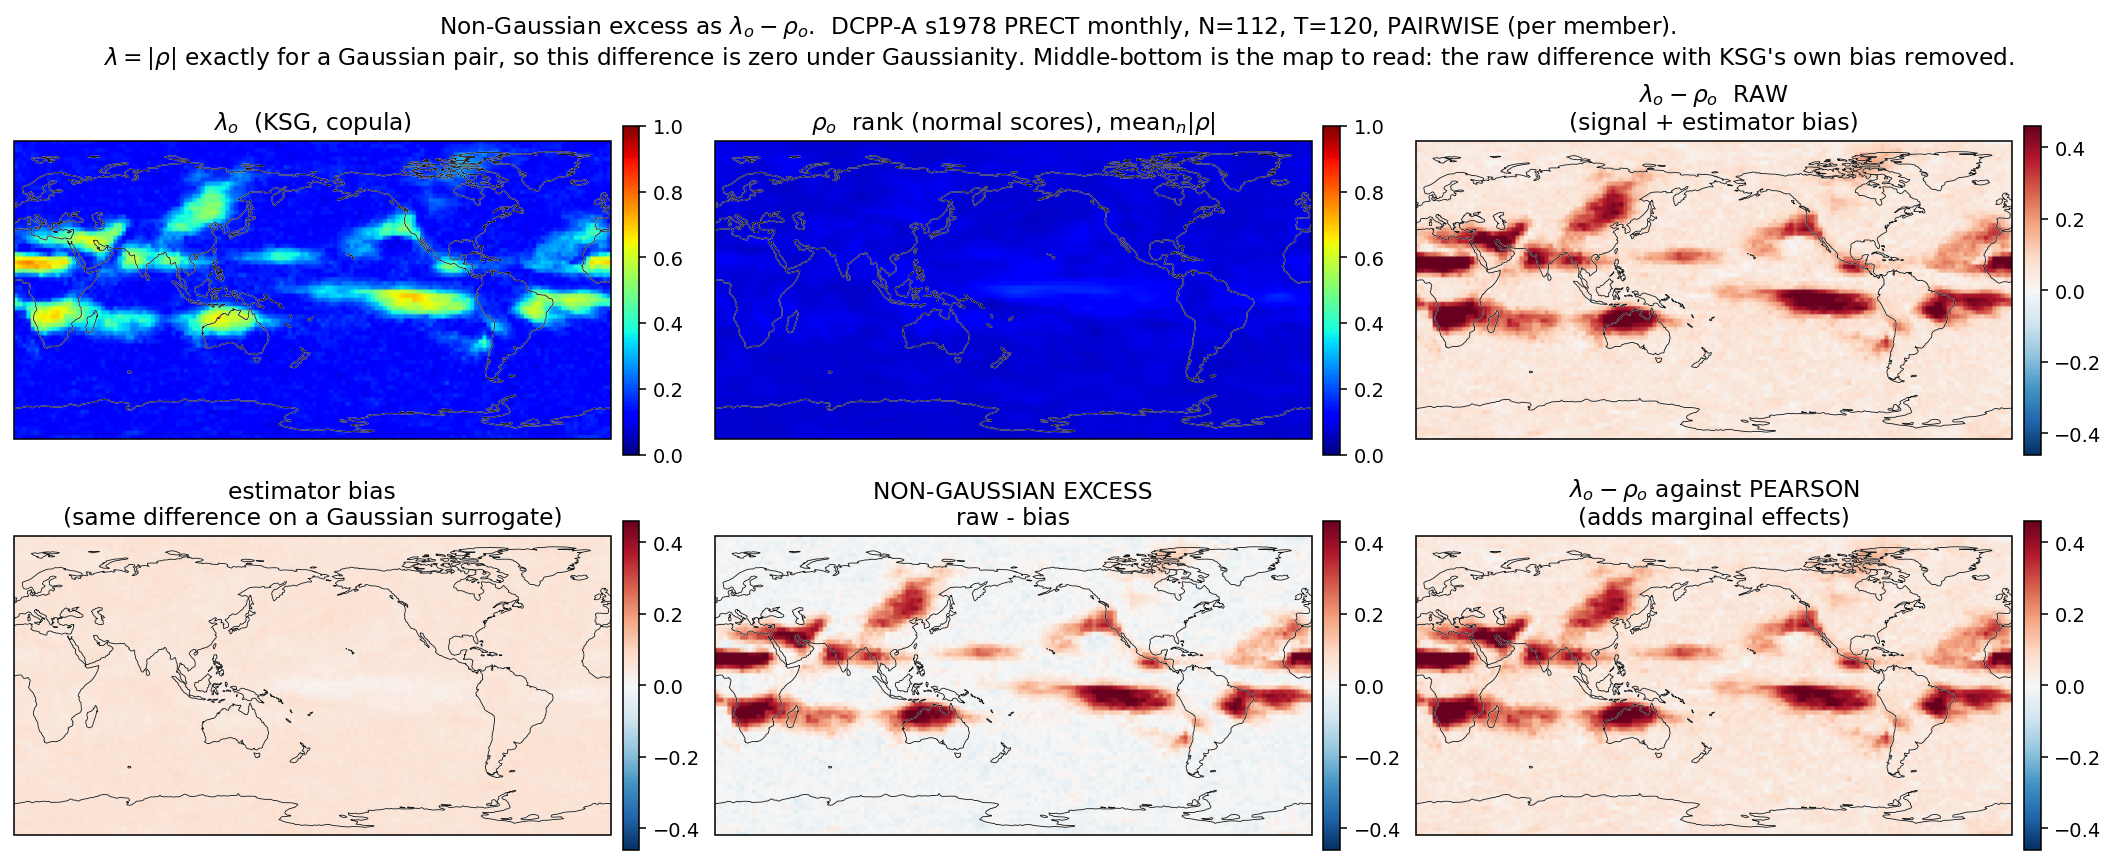
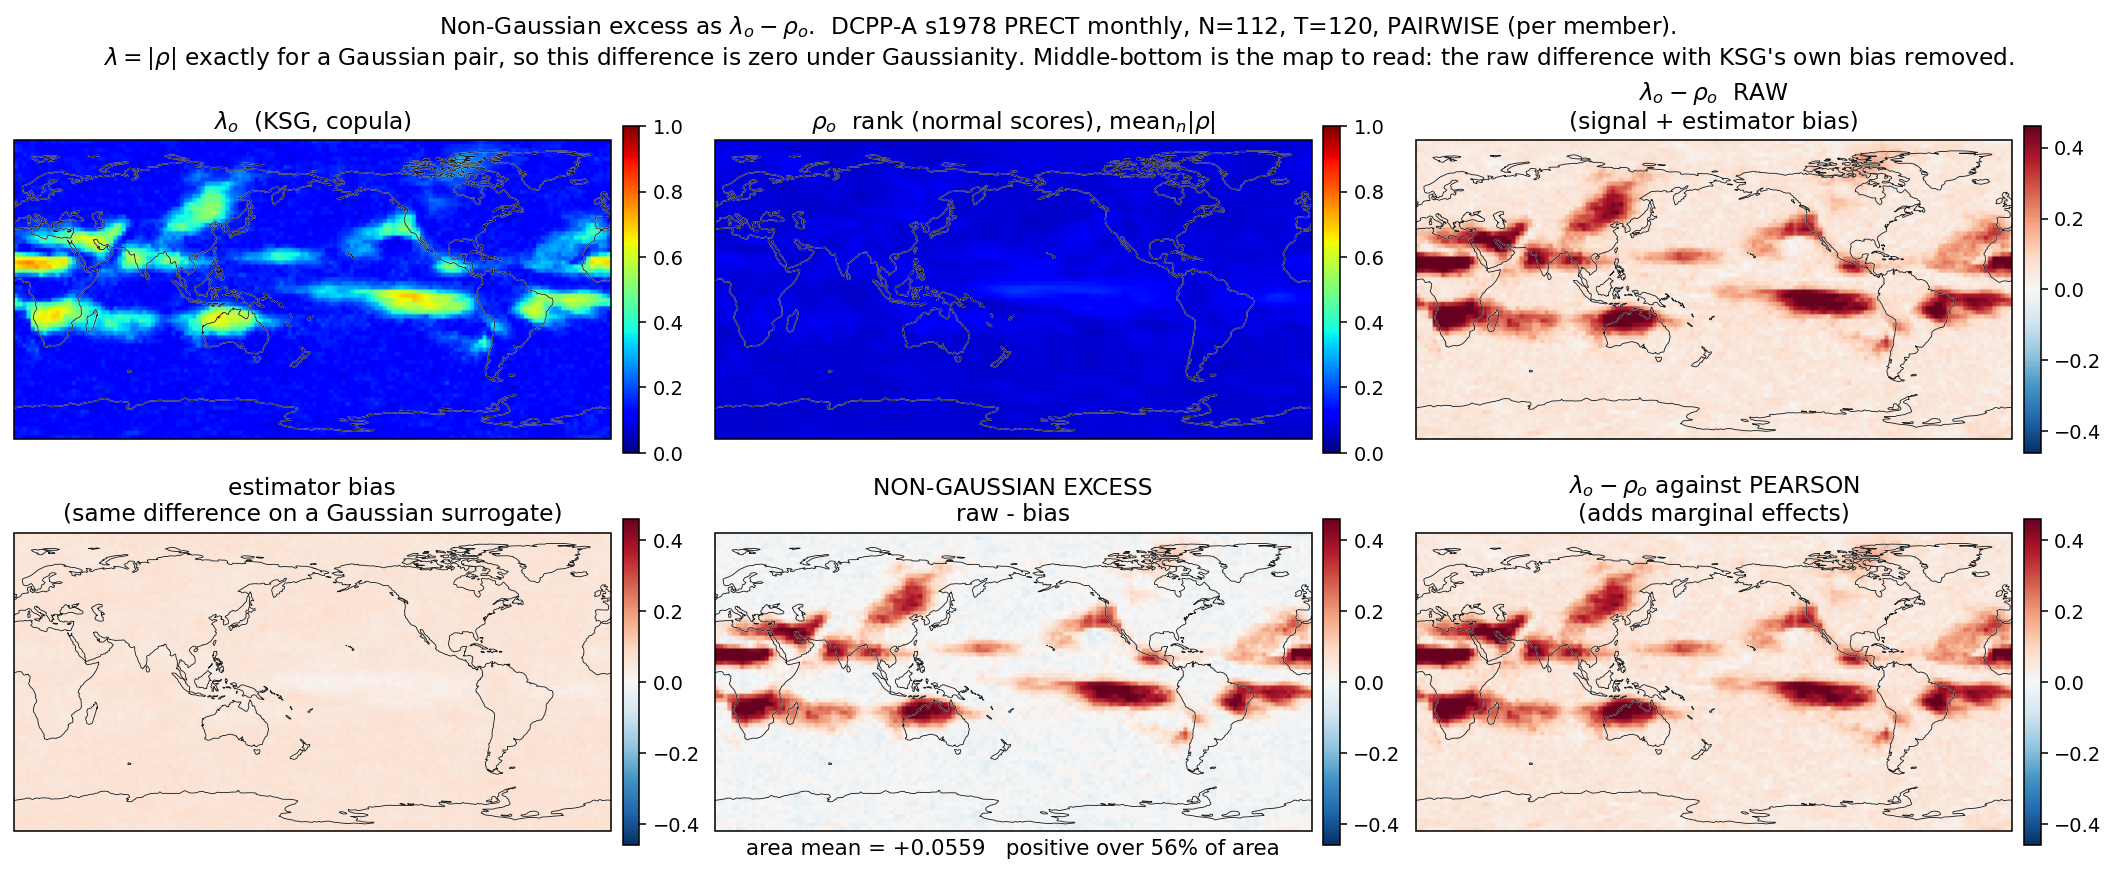
maps: restore the panel labels cartopy had silently dropped
A freshly created cartopy GeoAxes has its x- and y-axis set invisible, and an
invisible axis does not draw its label -- so ax.set_xlabel() / set_ylabel() were
silent no-ops on every map panel. The previous commit lost, without any error:

  figC  the three row names and all six "ratio of area means = ..." labels
  figD  the "area mean = ... positive over ...% of area" label
  figG  the per-panel "area mean ... (se/cell ...)" labels

figA/figB kept theirs only by accident: they call set_xticks([]) at the end, and
cartopy's set_xticks re-enables the axis as a side effect. tmp_mapaxes.show now
does that explicitly -- both axes visible, empty tick lists -- so labels render
and no ticks are drawn.

figC, figD and figG regenerated. Every json in both directories is byte-identical
to the previous commit, so this is purely the missing text; figA/figB/figE were
re-run too and came out byte-identical, confirming they were unaffected.

Recorded in both READMEs, since anyone adding a panel will hit it.

diff --git a/figures/pairwise-exploratory-prect/README.md b/figures/pairwise-exploratory-prect/README.md
@@ -383,6 +383,13 @@ map convention there once instead of in seven scripts. It needs `cartopy` (0.25.
 `VirtualEnv/SNP_env`) and the Natural Earth 110 m shapefile, already cached under
 `~/.local/share/cartopy`, so nothing is downloaded at plot time.
 
+**One trap if you add a panel.** A freshly created cartopy `GeoAxes` has its x- and
+y-axis set *invisible*, and an invisible axis does not draw its label, so
+`ax.set_xlabel(...)` is a silent no-op. figC's row names and ratio labels, figD's
+area-mean label and figG's per-panel area mean and standard error all disappeared on
+the first pass because of it. `tmp_mapaxes.show` re-enables both axes with an empty
+tick list — labels back, no ticks drawn.
+
 **Map conventions.** Every map panel here goes through `tmp_mapaxes.py`: cartopy
 `PlateCarree`, `origin="lower"` so the **Arctic is at the top and the Antarctic at the
 bottom**, and Natural Earth 110 m coastlines stroked white-under-dark so they stay

diff --git a/figures/pairwise-exploratory/README.md b/figures/pairwise-exploratory/README.md
@@ -225,6 +225,14 @@ predecessors. `extent` is built from cell **edges**, not centres — on the 5° 
 grid whose centres run 0–355, a centre-based extent would offset the field half a
 cell from the coastlines.
 
+**One trap if you add a panel.** A freshly created cartopy `GeoAxes` has its x- and
+y-axis set *invisible*, and an invisible axis does not draw its label — so
+`ax.set_xlabel(...)` silently does nothing. Several panels here carry their area mean
+in the xlabel and their row name in the ylabel, and all of those vanished on the first
+pass. `tmp_mapaxes.show` now re-enables both axes with an empty tick list, which
+restores the labels and still draws no ticks. If a label you set does not appear, that
+is why.
+
 ## Reproducing
 
 Scripts live in `.claude/scripts/` (gitignored). Order matters: the numerator and
